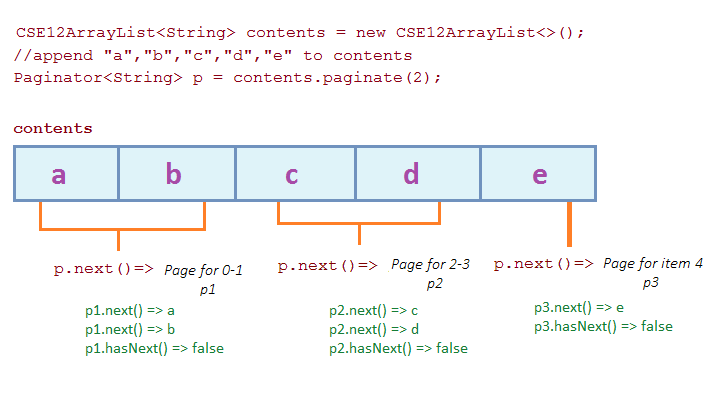
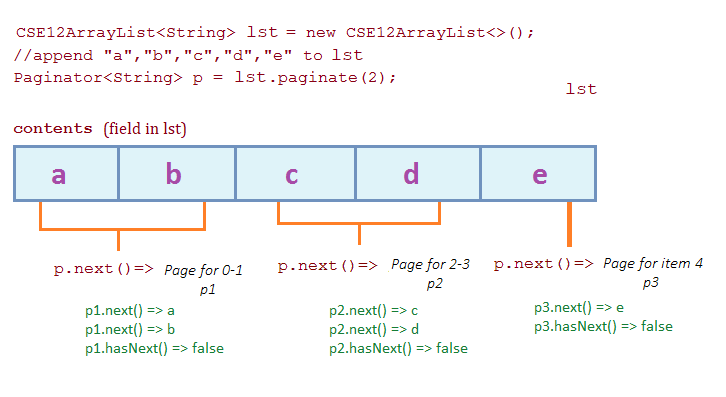
var, image changes

diff --git a/pa2/index.md b/pa2/index.md
@@ -97,15 +97,15 @@ The example below illustrates the core behavior of both kinds of iterators.
 
 ```
 // Create and populate a list (this should work for either kind of list)
-CSE12List<String> contents = makeList();
-contents.append("a");
-contents.append("b");
-contents.append("c");
-contents.append("d");
-contents.append("e");
+CSE12List<String> lst = makeList();
+lst.append("a");
+lst.append("b");
+lst.append("c");
+lst.append("d");
+lst.append("e");
 
 // We will paginate the list with 2 items per page
-Paginator<String> p = contents.paginate(2);
+Paginator<String> p = lst.paginate(2);
 
 // Check a few pages for their content...
 Page<String> p1 = p.next();
